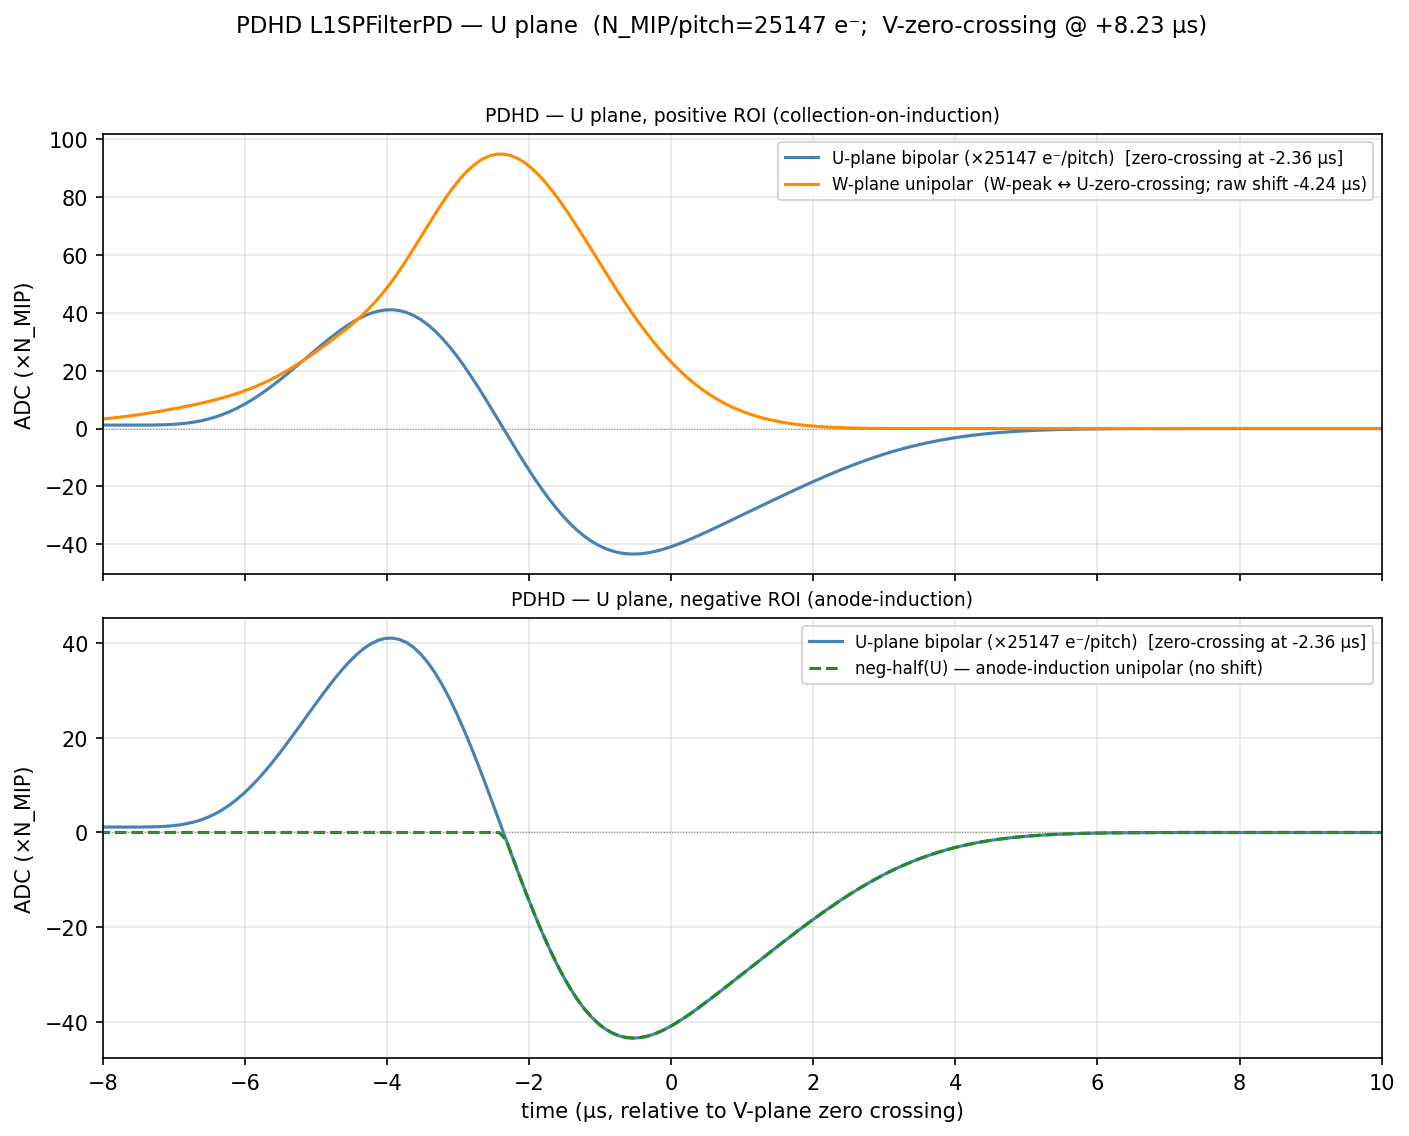
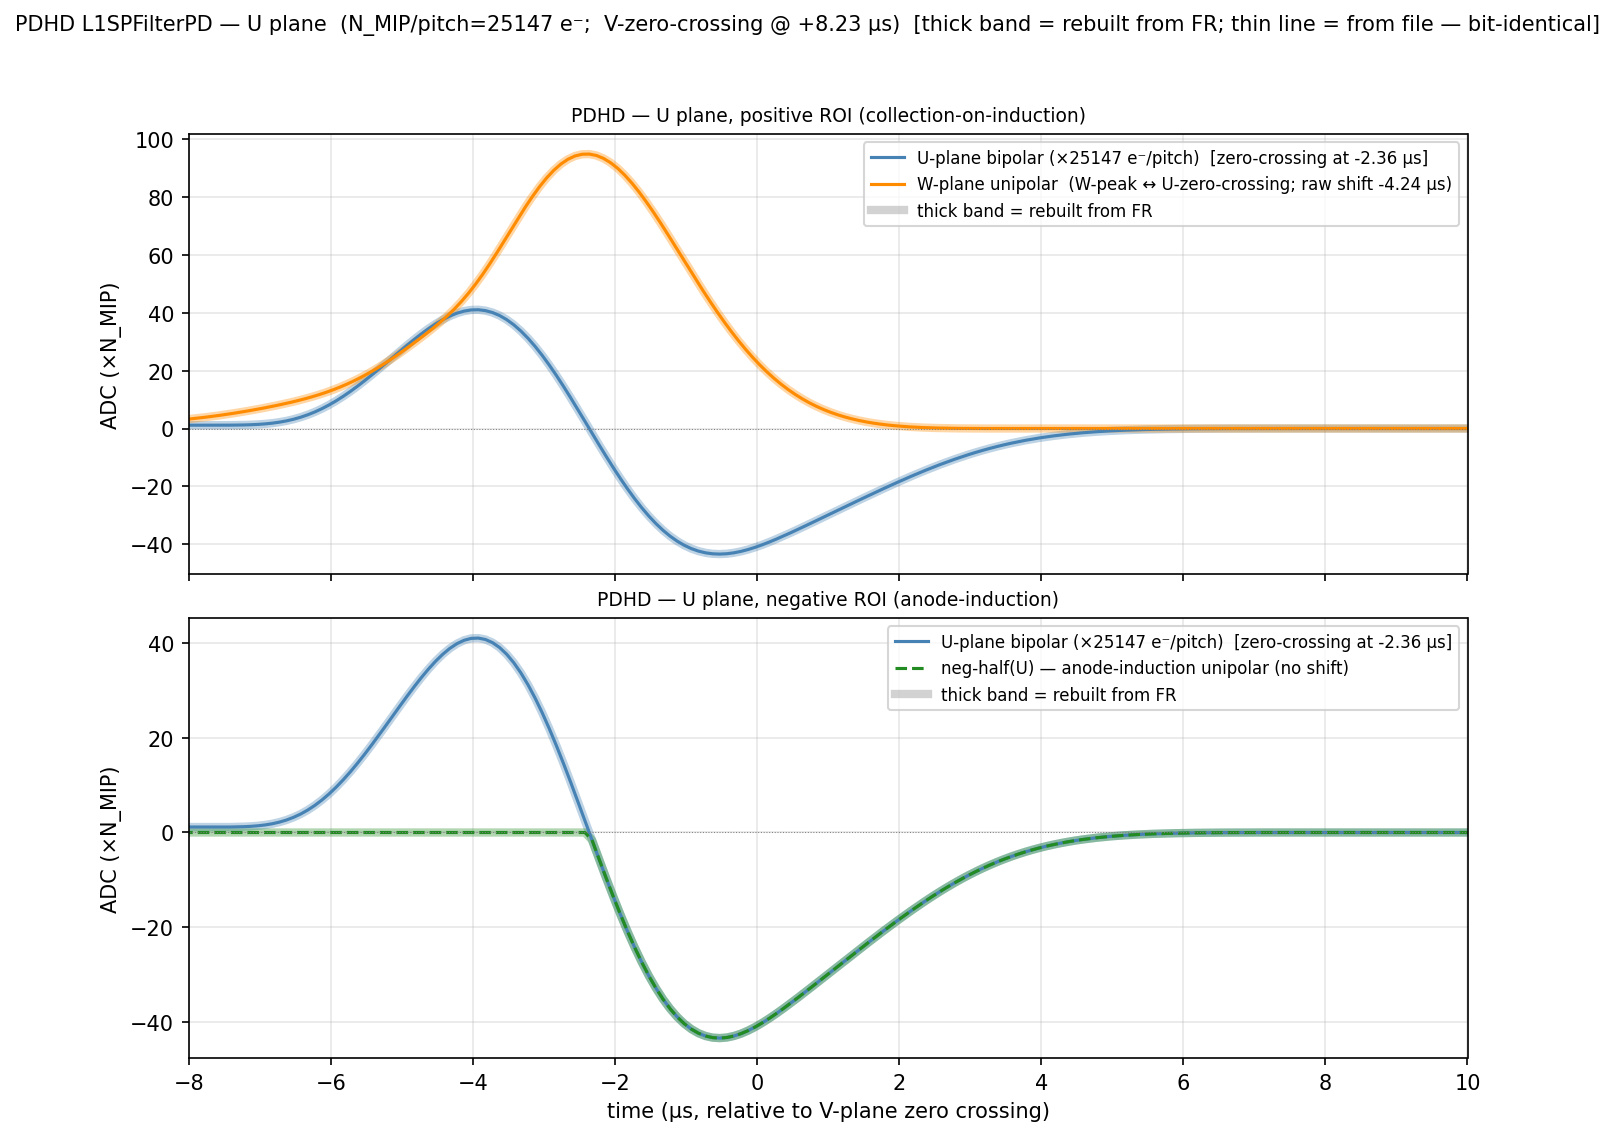
pdhd/nf_plot: overlay file vs FR-rebuild in kernel validation plots
When --from-file is used with the rebuild (default), plot_pdhd_plane now
draws the in-memory FR-rebuilt kernels as a thick semi-transparent band
underneath the thin file-loaded curves, making the bit-identical agreement
visible rather than just asserted numerically.

diff --git a/pdhd/nf_plot/track_response_l1sp_kernels.py b/pdhd/nf_plot/track_response_l1sp_kernels.py
@@ -164,10 +164,14 @@ def plot_uboone(data, outpath):
     print(f'  → {outpath}')
 
 
-def plot_pdhd_plane(data, plane_idx, outpath):
+def plot_pdhd_plane(data, plane_idx, outpath, ref_data=None):
     """PDHD positive (top) + negative (bottom).  t-axis offset = V zero
     crossing (shared across U/V).  W shift is per-plane: W peak lands at
-    each plane's own bipolar zero crossing."""
+    each plane's own bipolar zero crossing.
+
+    If ref_data is provided (e.g. the in-memory FR rebuild), its curves are
+    drawn as thin dashed lines underneath the main curves so the two sources
+    can be visually compared."""
     plane_label = {0: 'U', 1: 'V'}[plane_idx]
     k_bip = data['kU'] if plane_idx == 0 else data['kV']
     t  = data['t_us']
@@ -185,12 +189,21 @@ def plot_pdhd_plane(data, plane_idx, outpath):
 
     # positive case: bipolar + W (collection-on-induction)
     ax = axes[0]
+    if ref_data is not None:
+        r_bip = ref_data['kU'] if plane_idx == 0 else ref_data['kV']
+        r_shift = ref_data['planes'][plane_idx]['positive']['unipolar_time_offset_us']
+        ax.plot(t_plot, r_bip * Nm, color='steelblue', lw=4, alpha=0.35, ls='-',
+                label='_bipolar (rebuilt from FR)')
+        ax.plot(t_plot + r_shift, ref_data['kW'] * Nm, color='darkorange', lw=4, alpha=0.35, ls='-',
+                label='_unipolar (rebuilt from FR)')
     ax.plot(t_plot, k_bip * Nm, color='steelblue', lw=1.5,
             label=f'{plane_label}-plane bipolar (×{Nm:.0f} e⁻/pitch)  '
                   f'[zero-crossing at {zc_in_plot:+.2f} µs]')
     ax.plot(t_plot + shift_W, data['kW'] * Nm, color='darkorange', lw=1.5,
             label=f'W-plane unipolar  '
                   f'(W-peak ↔ {plane_label}-zero-crossing; raw shift {shift_W:+.2f} µs)')
+    if ref_data is not None:
+        ax.plot([], [], color='gray', lw=4, alpha=0.35, label='thick band = rebuilt from FR')
     ax.axhline(0, color='gray', lw=0.5, ls=':')
     ax.set_xlim(PLOT_XLIM)
     ax.set_ylabel('ADC (×N_MIP)')
@@ -201,11 +214,19 @@ def plot_pdhd_plane(data, plane_idx, outpath):
 
     # negative case
     ax = axes[1]
+    if ref_data is not None:
+        r_bip = ref_data['kU'] if plane_idx == 0 else ref_data['kV']
+        ax.plot(t_plot, r_bip * Nm, color='steelblue', lw=4, alpha=0.35, ls='-',
+                label='_bipolar (rebuilt from FR)')
+        ax.plot(t_plot, negative_half(r_bip) * Nm, color='forestgreen', lw=4, alpha=0.35, ls='-',
+                label='_neg-half (rebuilt from FR)')
     ax.plot(t_plot, k_bip * Nm, color='steelblue', lw=1.5,
             label=f'{plane_label}-plane bipolar (×{Nm:.0f} e⁻/pitch)  '
                   f'[zero-crossing at {zc_in_plot:+.2f} µs]')
     ax.plot(t_plot, negative_half(k_bip) * Nm, color='forestgreen', lw=1.5, ls='--',
             label=f'neg-half({plane_label}) — anode-induction unipolar (no shift)')
+    if ref_data is not None:
+        ax.plot([], [], color='gray', lw=4, alpha=0.35, label='thick band = rebuilt from FR')
     ax.axhline(0, color='gray', lw=0.5, ls=':')
     ax.set_xlim(PLOT_XLIM)
     ax.set_ylabel('ADC (×N_MIP)')
@@ -215,9 +236,12 @@ def plot_pdhd_plane(data, plane_idx, outpath):
                  f'(anode-induction)', fontsize=9)
 
     axes[-1].set_xlabel('time (µs, relative to V-plane zero crossing)')
+    overlay_note = '  [thick band = rebuilt from FR; thin line = from file — bit-identical]' \
+                   if ref_data is not None else ''
     fig.suptitle(f'PDHD L1SPFilterPD — {plane_label} plane  '
-                 f'(N_MIP/pitch={Nm:.0f} e⁻;  V-zero-crossing @ {t_zc_V:+.2f} µs)',
-                 fontsize=11)
+                 f'(N_MIP/pitch={Nm:.0f} e⁻;  V-zero-crossing @ {t_zc_V:+.2f} µs)'
+                 f'{overlay_note}',
+                 fontsize=10)
     plt.savefig(outpath, dpi=150, bbox_inches='tight')
     plt.close()
     print(f'  → {outpath}')
@@ -276,8 +300,12 @@ def main():
     pd = _kernels_to_data(pd_kernels, PD)
     report(PD['label'], pd)
 
-    plot_pdhd_plane(pd, 0, os.path.join(WORKDIR, 'track_response_l1sp_pdhd_U.png'))
-    plot_pdhd_plane(pd, 1, os.path.join(WORKDIR, 'track_response_l1sp_pdhd_V.png'))
+    # ref_pd: the in-memory FR rebuild, passed to plot functions for visual overlay.
+    # Only available when --from-file + rebuild; None otherwise (no overlay shown).
+    ref_pd = _kernels_to_data(ref, PD) if (args.from_file and not args.no_rebuild) else None
+
+    plot_pdhd_plane(pd, 0, os.path.join(WORKDIR, 'track_response_l1sp_pdhd_U.png'), ref_data=ref_pd)
+    plot_pdhd_plane(pd, 1, os.path.join(WORKDIR, 'track_response_l1sp_pdhd_V.png'), ref_data=ref_pd)
 
     # ── uBooNE reference (always rebuilt from FR; legacy detector, no JSON file) ──
     ub_kernels = build_for_detector(UB)
